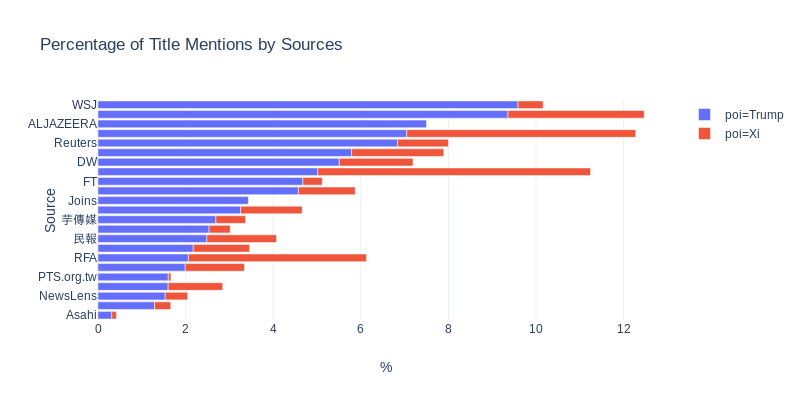
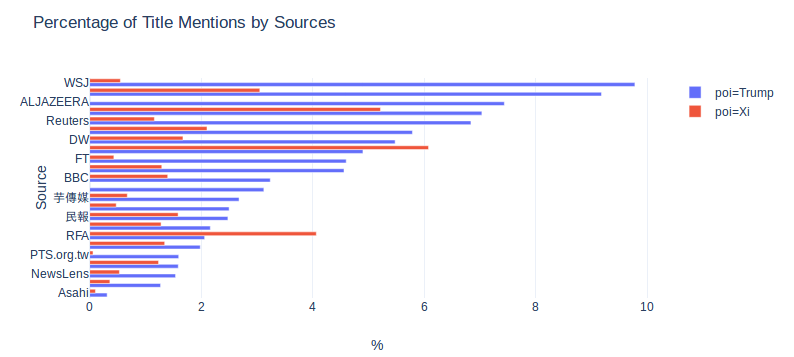
Update the plotly express piece

diff --git a/content/post/plotly_express/index.md b/content/post/plotly_express/index.md
@@ -73,7 +73,9 @@ Plotly Express Attempt One:
 
 {{< gist ceshine c0ff65a4ed617971384179a178d61e7e >}}
 
-The problem of this approach is that this API only allows stacking the two bars together, instead of grouping them. In this particular context, I think stacking makes it harder for reader to read the chart. So we have to find another way.
+~~The problem of this approach is that this API only allows stacking the two bars together, instead of grouping them. In this particular context, I think stacking makes it harder for reader to read the chart. So we have to find another way.~~
+
+(20190507 Update: Now it's possible to pass `barmode="group"` to `px.bar`.)
 
 Another option is to use the `facet_rol` or `facet_col` parameter:
 
